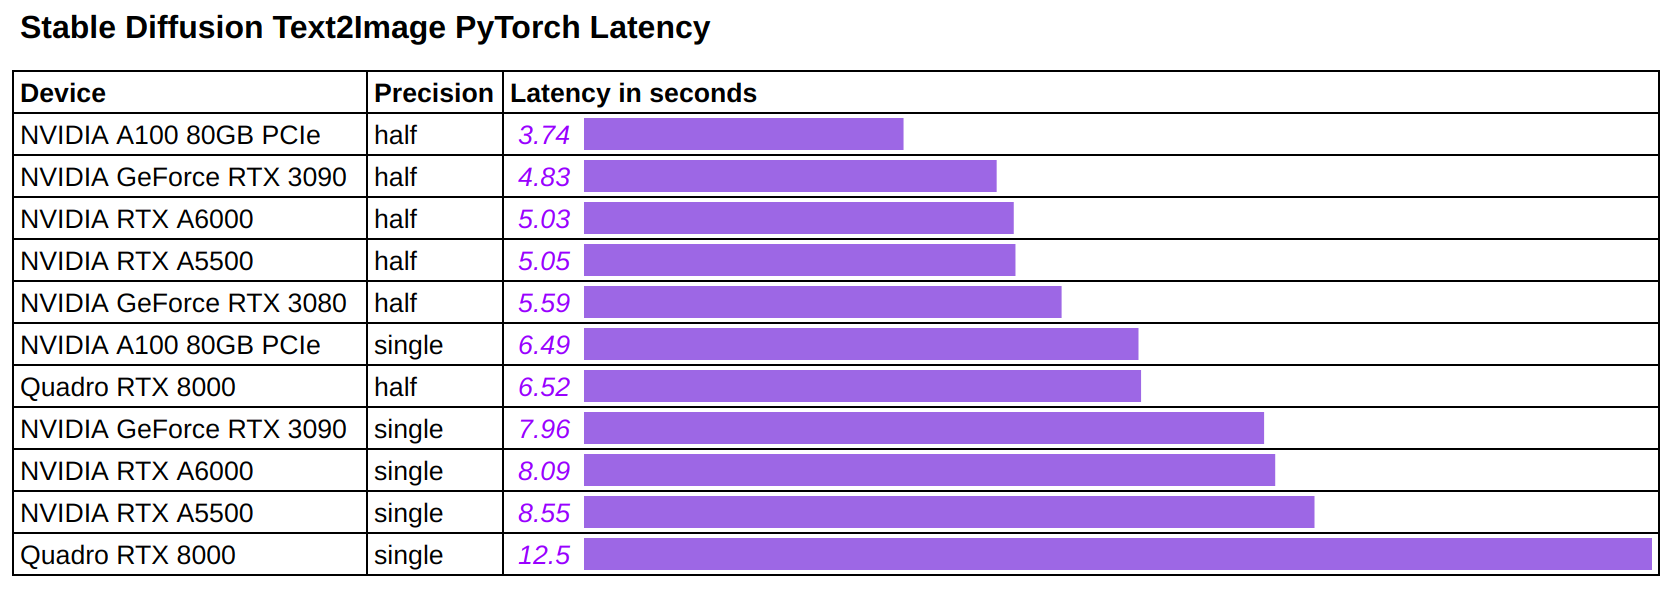
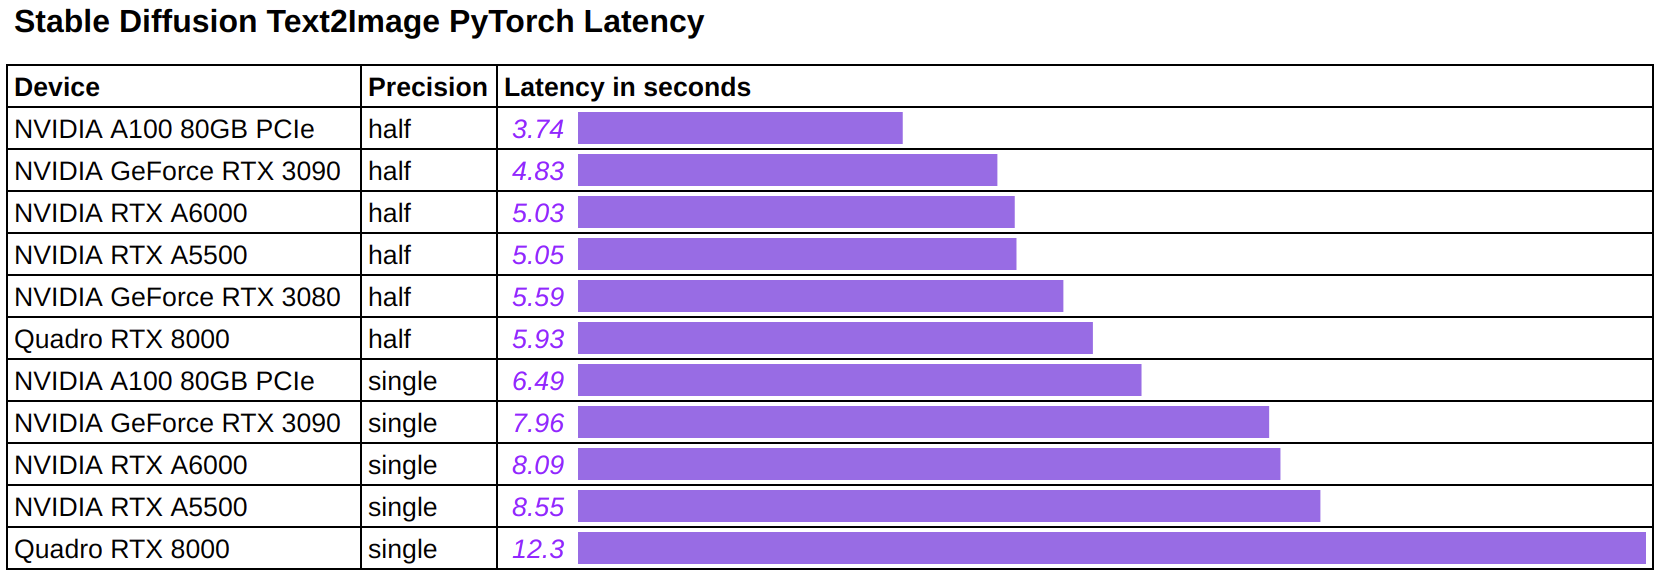
update latency graph rtx8000, update readme.md results section

Changed region(s): [[0.0, 0.0, 1.0, 1.0]]

diff --git a/docs/benchmark.md b/docs/benchmark.md
@@ -23,7 +23,7 @@ We believe Ampere GPUs enjoy a relatively "smaller" speedup from half-precision 
 
 We run these same inference jobs CPU devices to put in perspective the inference speed performance observed on GPU.
 
-<img src="./pictures/pretty_benchmark_sd_txt2img_gpu_vs_cpu.png" alt="Stable Diffusion Text2Image Latency (seconds)" width="700"/>
+<img src="./pictures/pretty_benchmark_sd_txt2img_gpu_vs_cpu.png" alt="Stable Diffusion Text2Image GPU v CPU" width="700"/>
 
 
 We note that:
@@ -58,7 +58,7 @@ Our throughput benchmark pushes the batch size to the maximum for each GPU, and 
 
 We run a series of throughput experiment in pytorch with half-precision and using the maximum batch size that can be used for each GPU:
 
-<img src="./pictures/pretty_benchmark_sd_txt2img_throughput.png" alt="Stable Diffusion Text2Image Throughput (images/minute)]" width="390"/>
+<img src="./pictures/pretty_benchmark_sd_txt2img_throughput.png" alt="Stable Diffusion Text2Image Throughput (images/minute)" width="390"/>
 
 We note:
 * Once again, A100 80GB is the top performer and has the highest throughput.
@@ -67,20 +67,20 @@ We note:
 
 As a concrete example, the chart below shows how A100 80GB's throughput increases by `64%` when we changed the batch size from 1 to 28 (the largest without causing an out of memory error). It is also interesting to see that the increase is not linear and flattens out when batch size reaches a certain value, at which point the tensor cores on the GPU are saturated and any new data in the GPU memory will have to be queued up before getting their own computing resources. 
 
-<img src="./pictures/pretty_benchmark_sd_txt2img_batchsize_vs_throughput.png" alt="Stable Diffusion Text2Image Throughput (images/minute)" width="380"/>
+<img src="./pictures/pretty_benchmark_sd_txt2img_batchsize_vs_throughput.png" alt="Stable Diffusion Text2Image Batch size vs Throughput (images/minute)" width="380"/>
 
 
 ## Precision
 
 We are curious about whether half-precision introduces degradations to the quality of the output images. To test this out, we fixed the text prompt as well as the "latent" input vector and fed them to the single-precision model and the half-precision model. We ran the inference for 100 steps and saved both models' outputs at each step, as well as the difference map:
 
-![Stable Diffusion Text2Image Throughput (images/minute)](./pictures/benchmark_sd_precision_history.gif)
+![Evolution of precision v degradation across 100 steps](./pictures/benchmark_sd_precision_history.gif)
 
 Our observation is that there are indeed visible differences between the single-precision output and the half-precision output, especially in the early steps. The differences often decrease with the number of steps, but might not always vanish. 
 
 Interestingly, such a difference may not imply artifacts in half-precision's outputs. For example, in step 70, the picture below shows half-precision didn't produce the artifact in the single-precision output (an extra front leg):
 
-![Stable Diffusion Text2Image Throughput (images/minute)](./pictures/benchmark_sd_precision_step_70.png)
+![Precision v Degradation at step 70](./pictures/benchmark_sd_precision_step_70.png)
 
 ---
 

diff --git a/README.md b/README.md
@@ -122,13 +122,7 @@ python ./scripts/benchmark.py
 
 ### Results
 
-|device          |precision|n_samples|latency      |memory|
-|----------------|---------|---------|-------------|------|
-|NVIDIA RTX A6000|single   |1        |4736.85498 ms|8.97G |
-|NVIDIA RTX A6000|half     |1        |4775.88759 ms|4.48G |
-|NVIDIA RTX A6000|single   |2        |8786.72098 ms|11.1G |
-|NVIDIA RTX A6000|half     |2        |8834.01660 ms|8.78G |
-
+<img src="./docs/pictures/pretty_benchmark_sd_txt2img_latency.png" alt="Stable Diffusion Text2Image Latency (seconds)" width="850"/>
 
 ## Links
 
